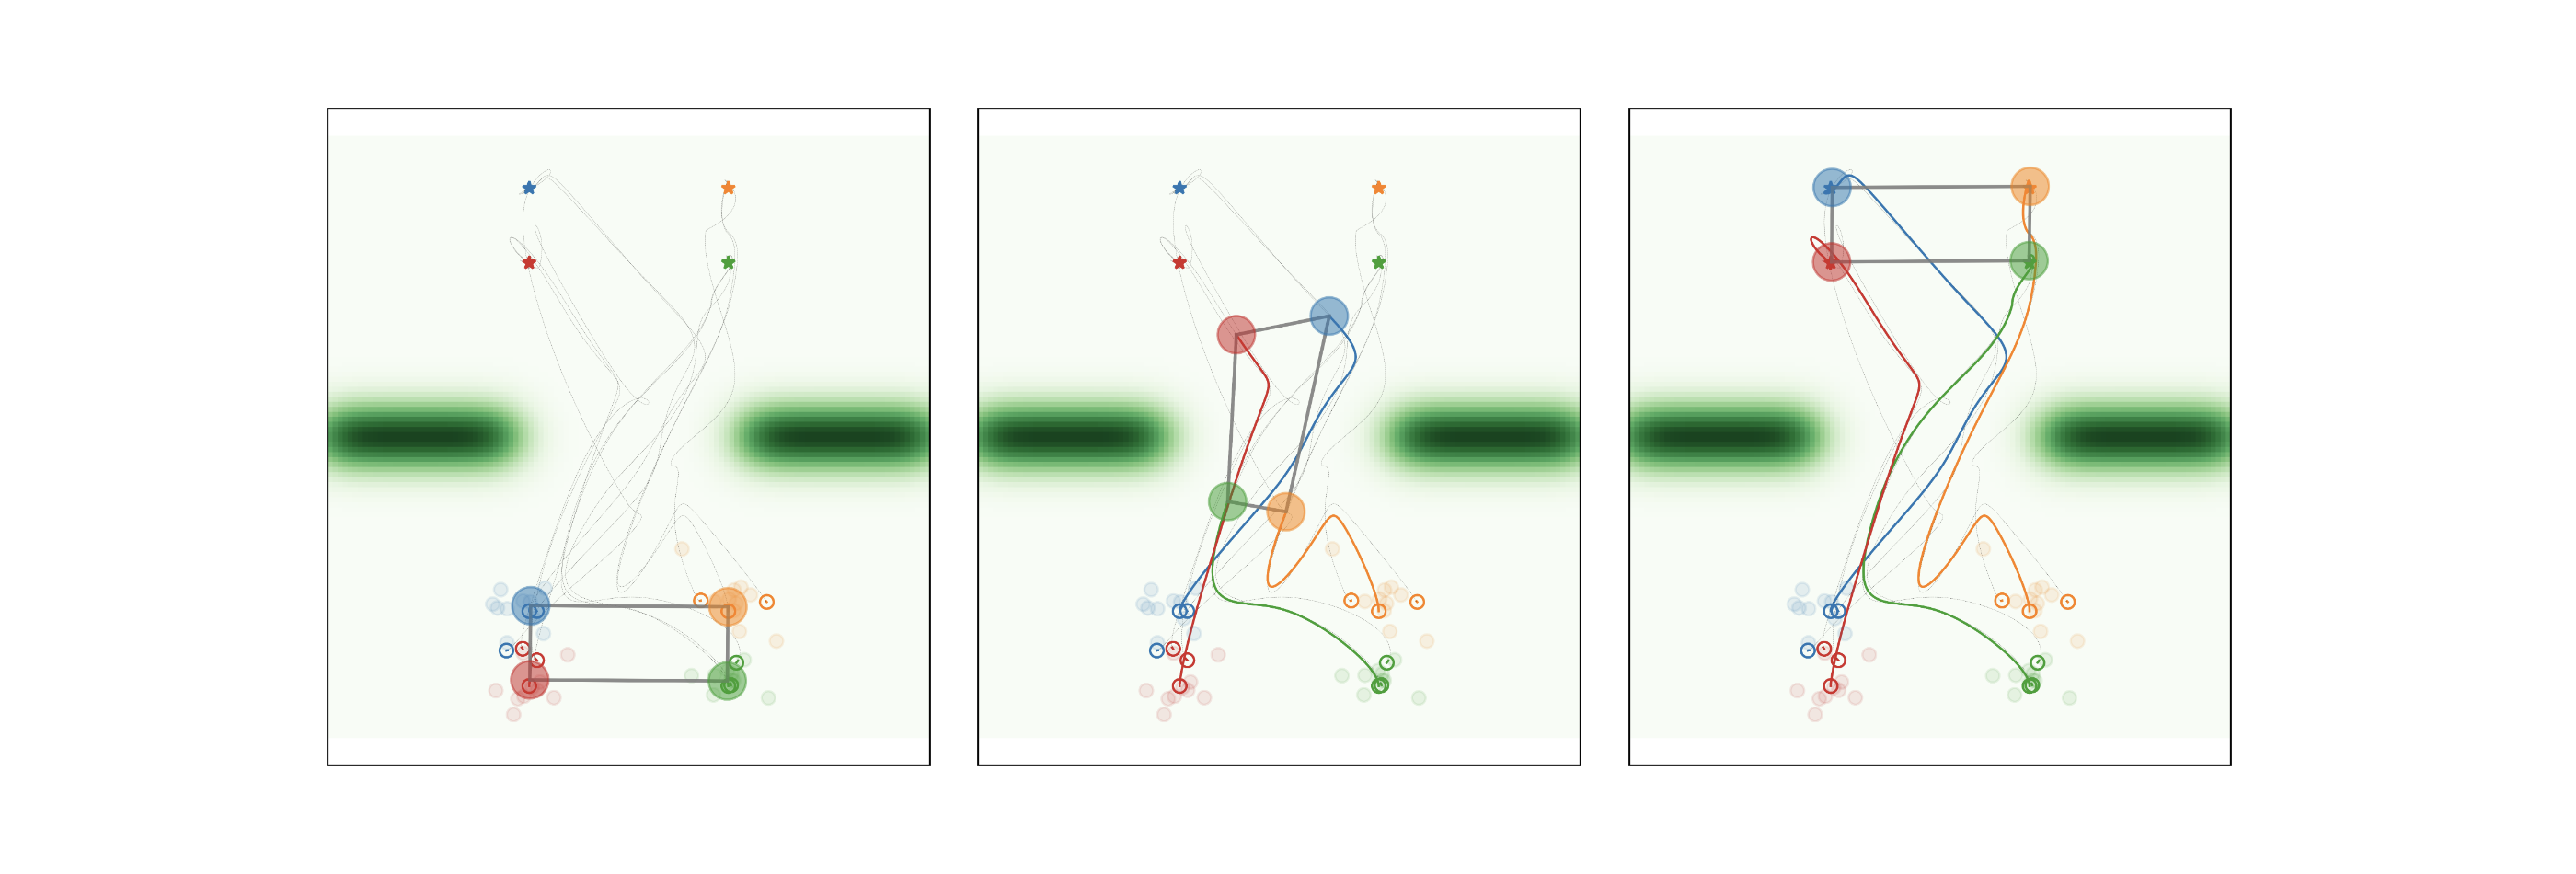
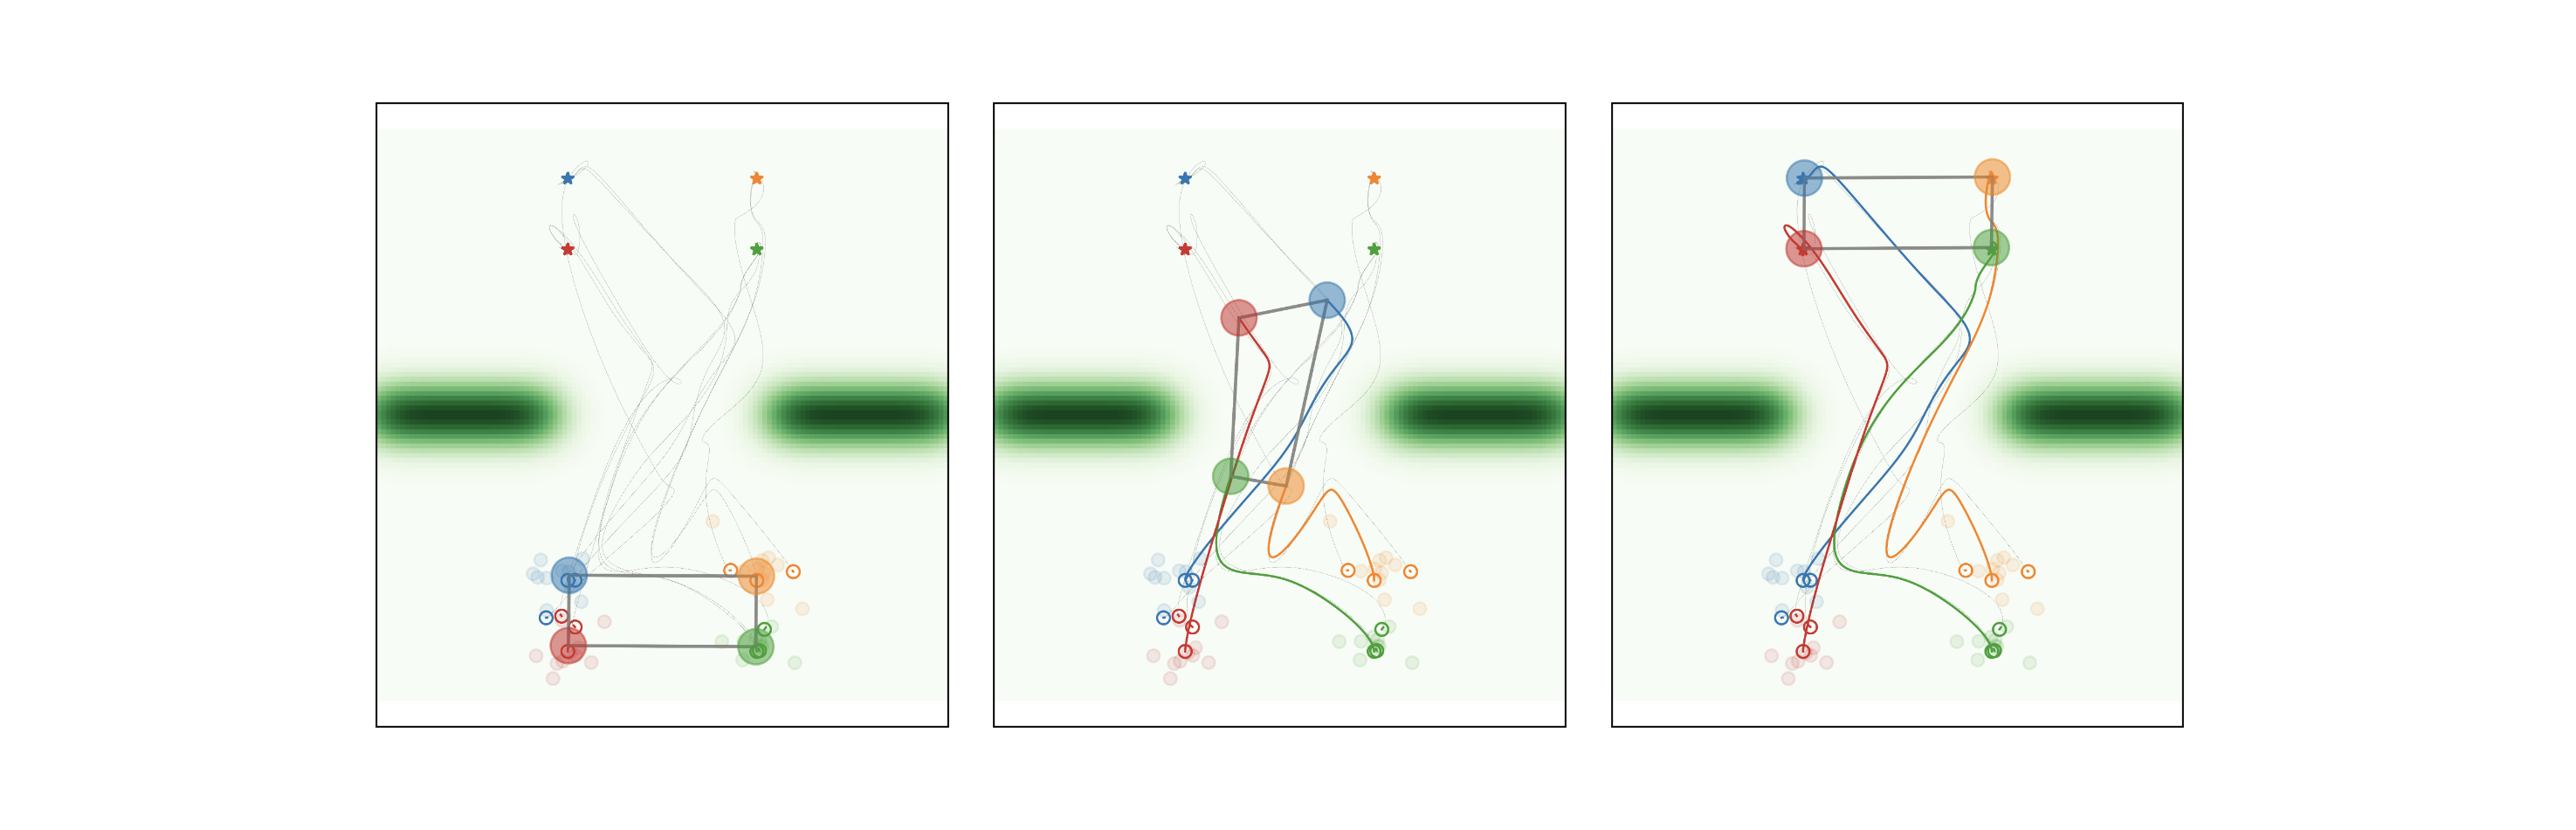
updated picture

diff --git a/research.html b/research.html
@@ -160,7 +160,7 @@
                 <figcaption>Neural Network in the loop</figcaption>
               </figure>
               <figure class="research-figure" data-image-shell>
-                <img src="assets/img/research/distributed2.png" alt="Figure placeholder for stability certificates" loading="lazy" data-fallback-image>
+                <img src="assets/img/research/distributed.png" alt="Figure placeholder for stability certificates" loading="lazy" data-fallback-image>
                 <div class="research-figure-placeholder" aria-hidden="true"><span>Figure 2</span></div>
                 <figcaption>Distributed neural controllers for multi-agent systems with stability guarantees</figcaption>
               </figure>